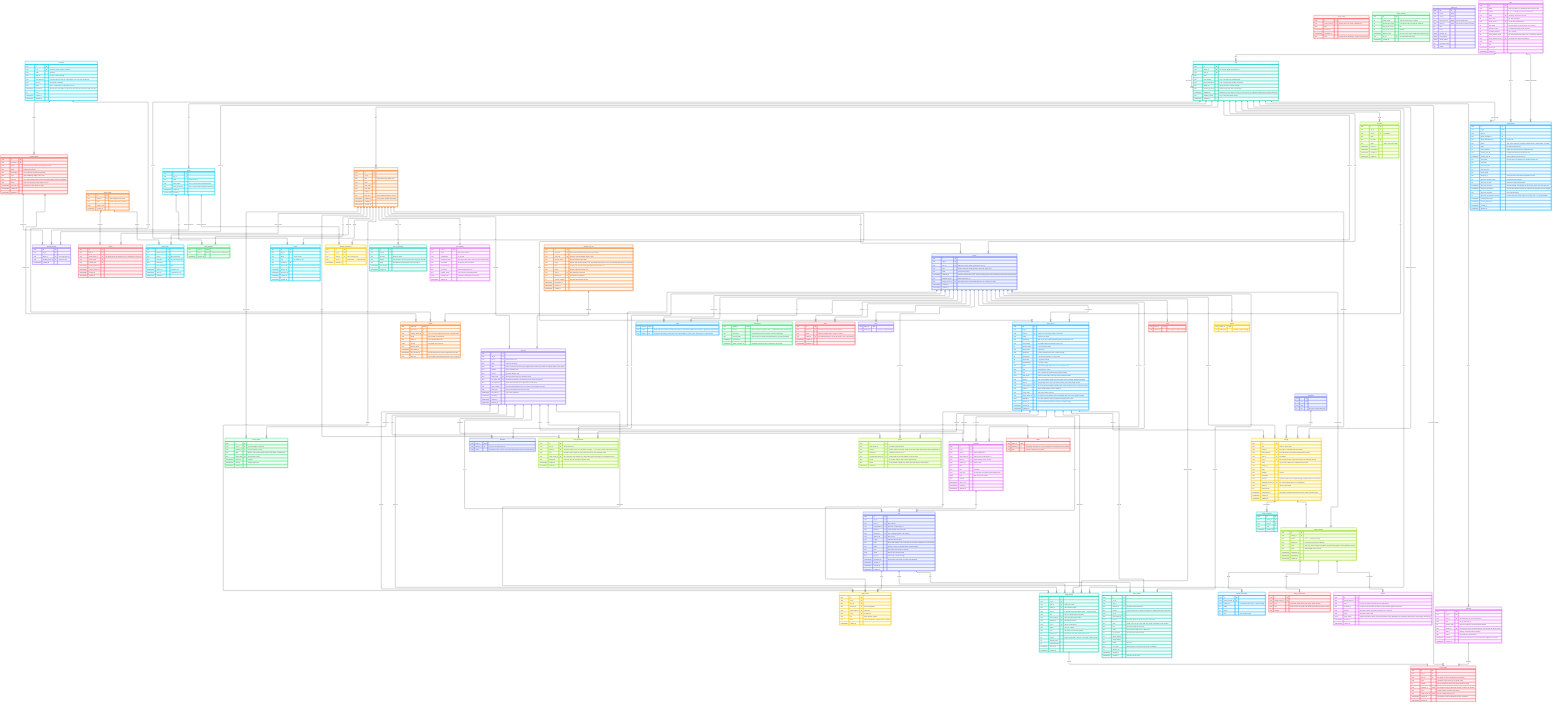
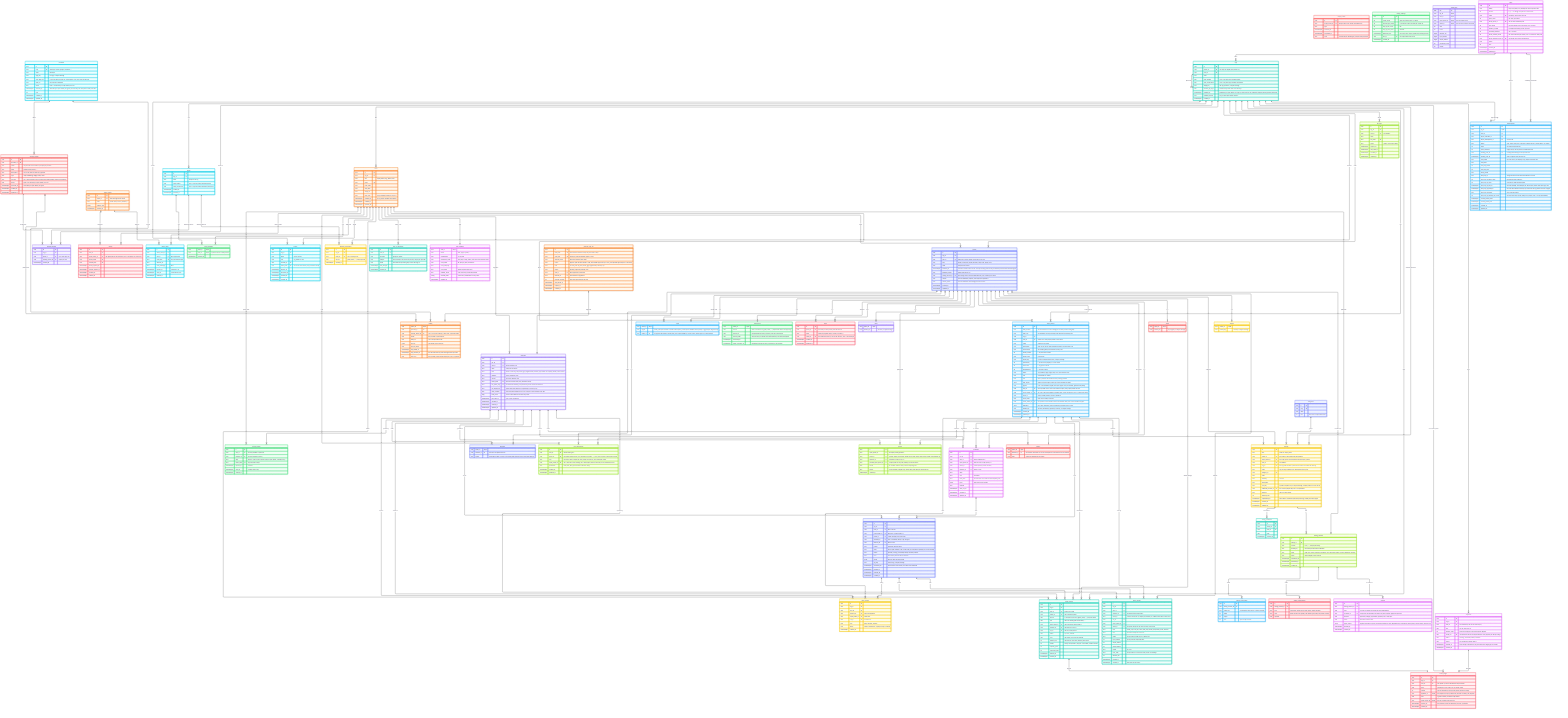
In the tables: a power's version and version notes from its manifest; a super power's own schema and role in rrotor's Postgres

diff --git a/docs/architecture.md b/docs/architecture.md
@@ -496,6 +496,8 @@ erDiagram
         timestamptz disabled_at "set while a limit leaves it out: it stops working and can only be deleted; cleared when allowed again"
         text disabled_reason "which limit left it out"
         uuid listing_version_id FK "the listing version it was installed from; null = made by its owner"
+        text version "from its manifest; explicit, and required to publish it"
+        text version_notes "from its manifest: what changed in this version"
         timestamptz created_at
         timestamptz updated_at
     }
@@ -596,6 +598,8 @@ erDiagram
 
     super_powers {
         uuid id PK
+        text data_schema "its own schema in rrotor's Postgres: its data, vectors and graph"
+        text data_role "the database role that reaches that schema and nothing else"
         uuid org_id FK
         uuid user_id FK "whose it is: every super power is one user's"
         text name "unique for its owner"
